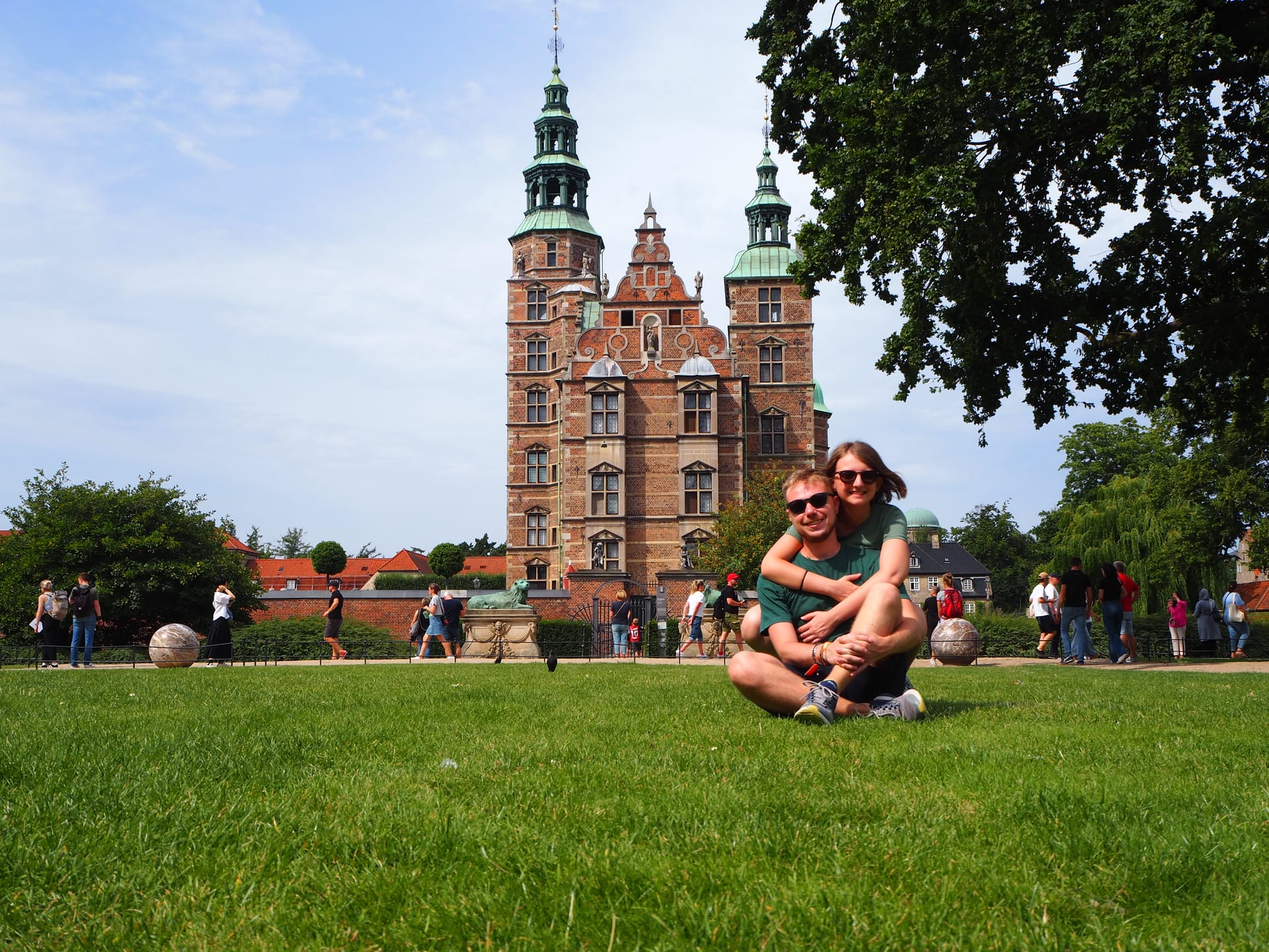
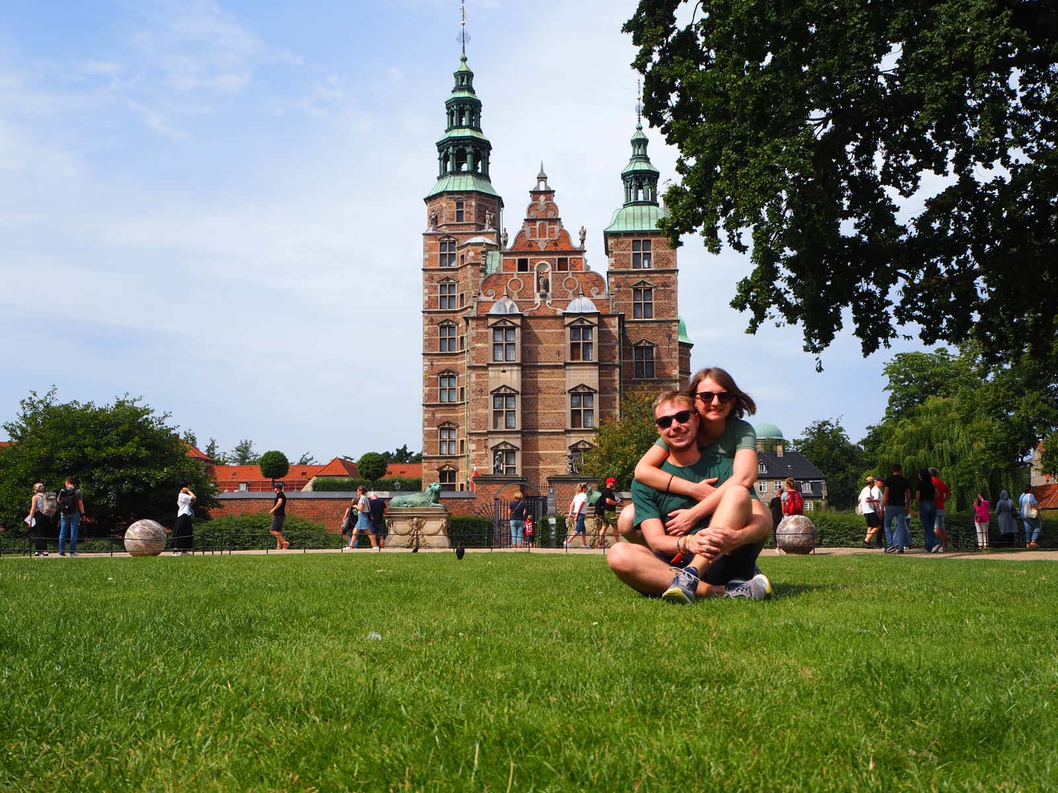
Improve page load performance
- Start intro animation on DOM ready instead of window load; shorten banner overlay fade
- Load Google Fonts and Font Awesome via <link> (no chained @import), font-display swap, async icons
- Preload banner image; add a smaller mobile banner
- Recompress banner and church photos

Changed region(s): [[0.9688, 0.1542, 1.0, 0.185], [0.9688, 0.0925, 1.0, 0.1233], [0.7188, 0.2467, 0.75, 0.2775]]

diff --git a/assets/css/main.css b/assets/css/main.css
@@ -1,5 +1,3 @@
-@import url(fontawesome-all.min.css);
-@import url("https://fonts.googleapis.com/css?family=Open+Sans:400,400italic,600,600italic,800,800italic");
 
 /*
 	Spectral by HTML5 UP
@@ -3815,11 +3813,7 @@ body.is-menu-visible #menu {
 	-moz-transition: opacity 3s ease-in-out;
 	-webkit-transition: opacity 3s ease-in-out;
 	-ms-transition: opacity 3s ease-in-out;
-	transition: opacity 3s ease-in-out;
-	-moz-transition-delay: 1.25s;
-	-webkit-transition-delay: 1.25s;
-	-ms-transition-delay: 1.25s;
-	transition-delay: 1.25s;
+	transition: opacity 0.75s ease-in-out;
 	content: '';
 	background: #2e3842;
 	display: block;
@@ -4113,6 +4107,13 @@ body.is-mobile.landing .wrapper.style4 {
 	background-position: center center;
 	background-repeat: no-repeat;
 	background-size: cover;
+}
+
+@media screen and (max-width: 980px) {
+	body.is-mobile.landing #banner,
+	body.is-mobile.landing .wrapper.style4 {
+		background-image: linear-gradient(rgba(0, 0, 0, 0.5), rgba(0, 0, 0, 0.5)), url("../../images/banner-mobile.jpg");
+	}
 }
 
 body.is-mobile.landing #footer {

diff --git a/index.html b/index.html
@@ -7,8 +7,15 @@
 	<meta name="viewport" content="width=device-width, initial-scale=1" />
 	<meta name="robots" content="noindex, nofollow" />
 	<link rel="icon" type="image/svg+xml" href="images/favicon.svg" />
+	<link rel="preconnect" href="https://fonts.googleapis.com" />
+	<link rel="preconnect" href="https://fonts.gstatic.com" crossorigin />
+	<link rel="preload" as="image" href="images/banner-mobile.jpg" media="(max-width: 980px)" />
+	<link rel="preload" as="image" href="images/banner.jpg" media="(min-width: 981px)" />
 	<link rel="stylesheet" href="assets/css/main.css" />
+	<link rel="stylesheet" href="https://fonts.googleapis.com/css?family=Open+Sans:400,400italic,600,600italic,800,800italic&amp;display=swap" />
+	<link rel="stylesheet" href="assets/css/fontawesome-all.min.css" media="print" onload="this.media='all'" />
 	<noscript>
+		<link rel="stylesheet" href="assets/css/fontawesome-all.min.css" />
 		<link rel="stylesheet" href="assets/css/noscript.css" />
 	</noscript>
 </head>

diff --git a/assets/js/main.js b/assets/js/main.js
@@ -22,12 +22,14 @@
 		});
 
 	// Play initial animations on page load.
-		$window.on('load', function() {
+		// Start the intro animation as soon as the DOM is ready instead of
+		// waiting for every image/font to finish loading (window "load").
+		$(function() {
 			Utils.initSlideShow('#gallery-one');
 			Utils.initSlideShow('#gallery-two');
 			window.setTimeout(function() {
 				$body.removeClass('is-preload');
-			}, 100);
+			}, 50);
 		});
 
 	// Mobile?
